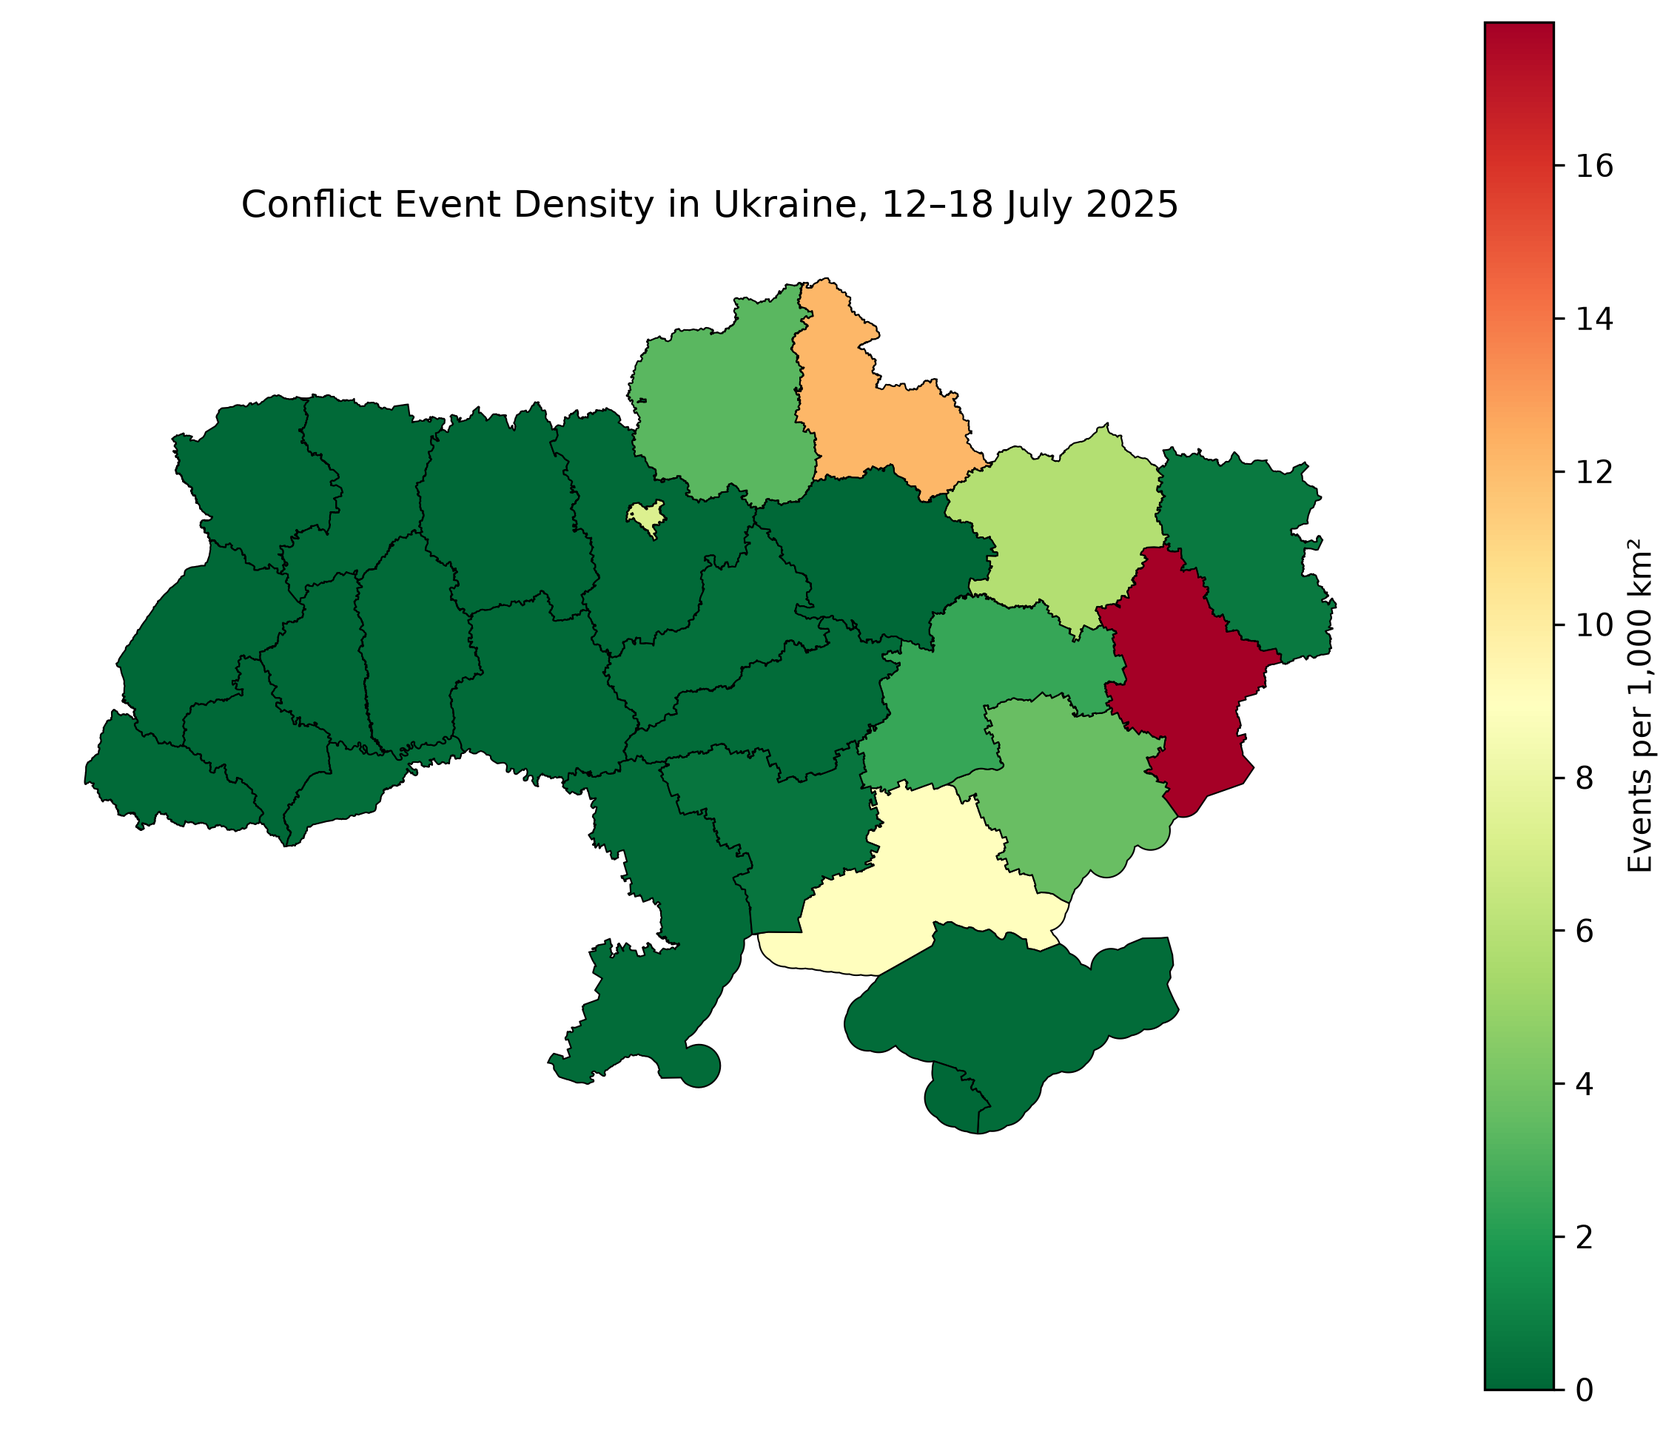
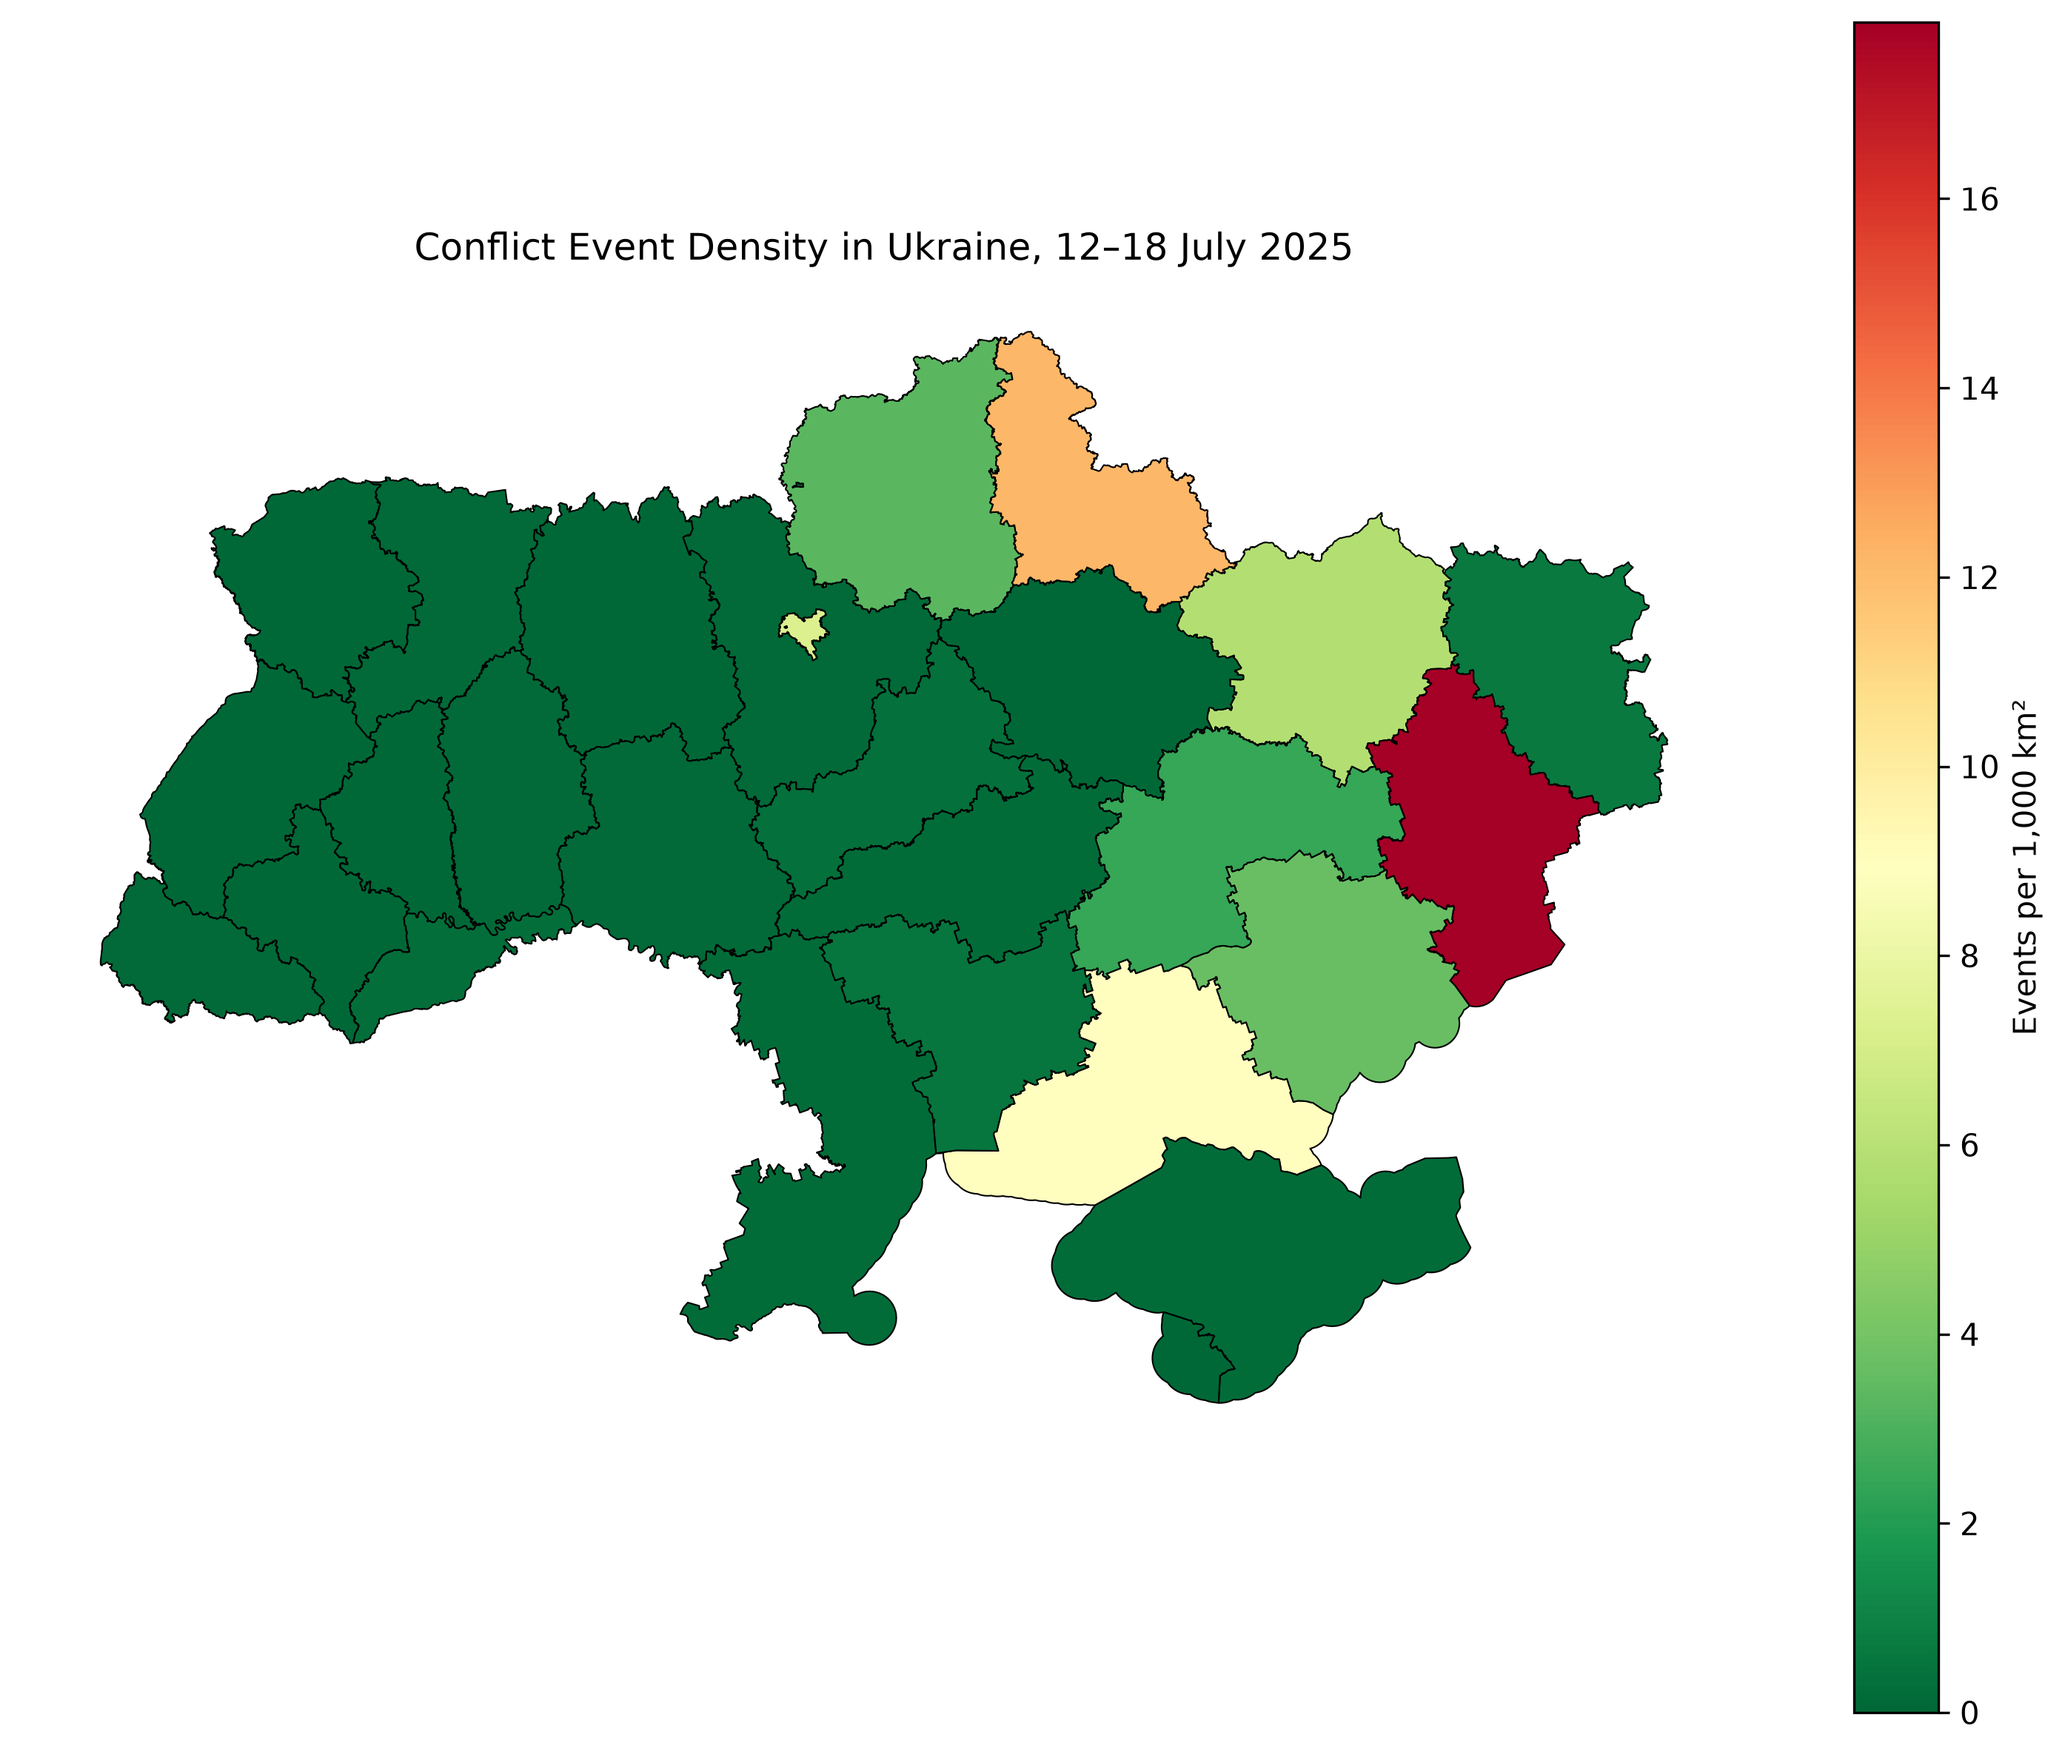
Improve validation and clean

diff --git a/ukraine_conflict_analysis.py b/ukraine_conflict_analysis.py
@@ -67,7 +67,6 @@ def prepare_event_data(records):
 
     # Convert event dates to datetime values
     events_df["event_date"] = pd.to_datetime(events_df["event_date"])
-    print(events_df["event_date"].dtype)
 
     # Convert coordinate fields to numeric values
     events_df["latitude"] = pd.to_numeric(
@@ -80,7 +79,8 @@ def prepare_event_data(records):
     )
 
     # Check for missing coordinate values
-    print(events_df[["latitude", "longitude"]].isna().sum())
+    if events_df[["latitude", "longitude"]].isna().any().any():
+        raise ValueError("Missing or invalid coordinates found in ACLED event data.")
 
     # Create point geometry from long and lat
     geometry = gpd.points_from_xy(
@@ -194,7 +194,7 @@ token_data = {
 
 # Send the authentication request to ACLED
 token_response = requests.post(token_url, data=token_data, timeout=30)
-
+token_response.raise_for_status()
 print(f"Authentication status: {token_response.status_code}")
 
 # Extract the access token from the authentication response
@@ -225,38 +225,25 @@ response = requests.get(
     params=params,
     timeout=30
 )
+response.raise_for_status()
 print(f"Event request status: {response.status_code}")
 
 # Extract the returned ACLED conflict event records
 api_data = response.json()
 print(f"Total events for study week: {api_data['total_count']}")
 records = api_data["data"]
-print(len(records))
+if not records:
+    raise ValueError("No ACLED events were returned for the selected study period.")
 
 # Prepare ACLED event records for spatial analysis
 analysis_gdf = prepare_event_data(records)
 
-# Check ACLED returns
-
-print(analysis_gdf.crs)
-print(analysis_gdf.shape)
-
 # Load Ukraine Oblast boundaries
 oblasts = load_boundaries('data/boundaries/geoBoundaries-UKR-ADM1-all/geoBoundaries-UKR-ADM1.geojson')
-print(oblasts.head())
-print(oblasts.columns)
-print(oblasts.crs)
 print(f"Number of oblast areas: {len(oblasts)}")
-print(oblasts['shapeName'].tolist())
 
 # Calculate oblast areas
 oblasts_area = calculate_oblast_areas(oblasts)
-
-# Check the projected coordinate reference system
-print(oblasts_area.crs)
-
-# Check oblast area in square kilometres
-print(oblasts_area[["shapeName", "area_km2"]].head())
 
 # Assign ACLED event points to Ukraine oblast polygons
 events_joined = assign_events_to_oblasts(
@@ -264,25 +251,15 @@ events_joined = assign_events_to_oblasts(
     oblasts
 )
 
-# Check join
-print(events_joined.shape)
-print(events_joined[["shapeName"]].head())
-
-# Check for events not assigned to an oblast
-print(events_joined["shapeName"].isna().sum())
+# Check that all events were assigned to an oblast area
+if events_joined["shapeName"].isna().any():
+    raise ValueError("One or more ACLED events could not be assigned to an oblast area.")
 
 # Calculate event counts and density by oblast area
 oblast_summary = calculate_event_density(
     events_joined,
     oblasts_area
 )
-
-# Check merge
-print(oblast_summary.shape)
-print(oblast_summary[["shapeName", "area_km2", "event_count"]].head())
-
-# Check replaced with zero
-print(oblast_summary["event_count"].isna().sum())
 
 # Display oblast areas with the highest event density
 print(
@@ -318,9 +295,6 @@ top_10_events = (
     .head(10)
 )
 
-# Check top 10
-print(top_10_events)
-
 # Plot the ten oblast areas
 top_10_plot = top_10_events.sort_values("event_count")
 fig, ax = plt.subplots(figsize=(10, 6))
@@ -355,9 +329,6 @@ summary_table = summary_table.sort_values(
     ascending=False
 )
 
-# Check table
-print(summary_table.head(10))
-
 # Export oblast area summary table
 summary_table.to_csv(
     "outputs/oblast_area_event_summary_12_18_july_2025.csv",
@@ -366,7 +337,6 @@ summary_table.to_csv(
 
 # Count conflict events by event type
 event_type_counts = analysis_gdf["event_type"].value_counts()
-print(event_type_counts)
 
 # Plot conflict events by event type
 event_type_plot = event_type_counts.sort_values()
